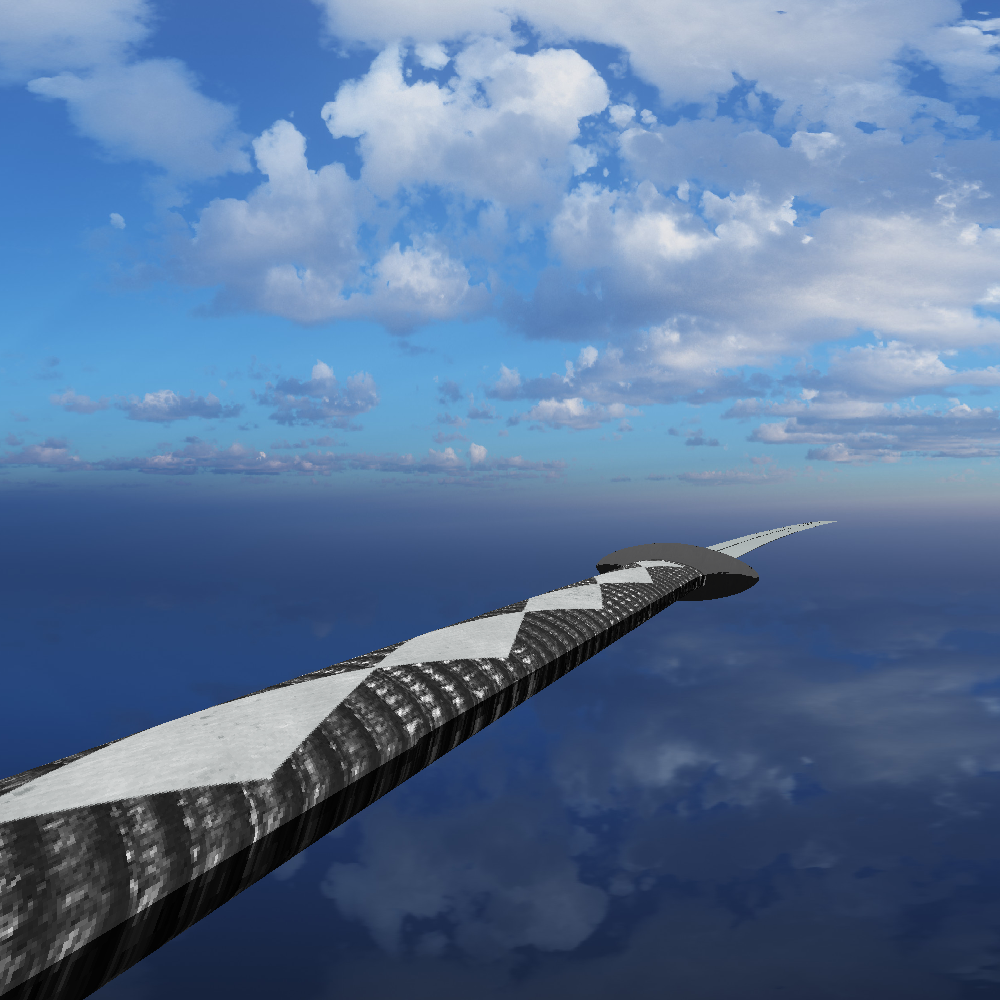
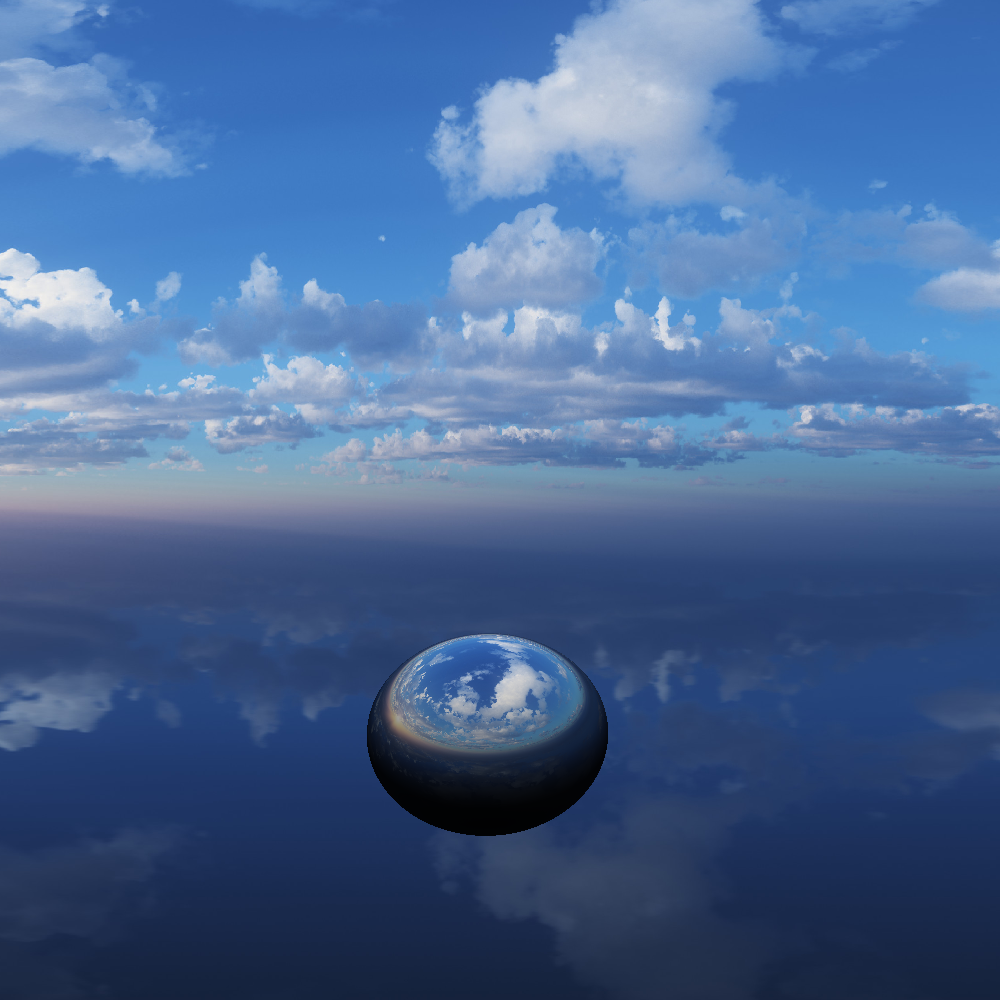
Fixed sft shadow but reversed

diff --git a/dev/src/physic/shadow.c b/dev/src/physic/shadow.c
@@ -7,47 +7,44 @@ void shadow_render(raycast_param* rcp)
     ray* shadow_ray = calloc(sizeof(struct ray),1);
 
     //Define the position of the shadow ray
-    scale(ry->dir, (ry->last_hit->mint - 0.00001), shadow_ray->pos);
+    scale(ry->dir, ry->last_hit->mint, shadow_ray->pos);
+    float litl_norm[3];
+    scale(ry->last_hit->normal, 0.0001, litl_norm);
+    add(shadow_ray->pos, litl_norm, shadow_ray->pos);
     add(ry->pos, shadow_ray->pos, shadow_ray->pos);
-    //printf("triangle : %f\n", ry->last_hit->tri->normal);
-    //Define the normal of the triangle hit by ry
-    float normal[3] ={0,0,0};
-    normalize(ry->last_hit->normal,normal);
-
-    int size = w->size_lights;
-    for (int i = 0; i < size; i++){
-        //Define the direction of the shadow ray
-        minus(w->lights[i]->pos, shadow_ray->pos, shadow_ray->dir);
+    for (int i = 0; i < w->size_lights; i++){
+        float dir_light[3];
+        minus(ry->last_hit->point, w->lights[i]->pos, dir_light);
+        normalize(dir_light, dir_light);
+        float dpd = dotProduct(ry->last_hit->normal, dir_light);
+        dpd = max(MIN_DIFUSE_LIGHT, dpd);
+        scale(ry->last_hit->color, dpd, ry->last_hit->color); 
+        // //Define the direction of the shadow ray
+        // minus(w->lights[i]->pos, shadow_ray->pos, shadow_ray->dir);
+        // float mint = norm(shadow_ray->dir);
         
-        //Normalize the direction vector
-        normalize(shadow_ray->dir,shadow_ray->dir);
-        float mint = distance(shadow_ray->pos, w->lights[i]->pos)+0.01;
-        float c = 1/mint * w->lights[i]->intensity;
+        // //Normalize the direction vector
+        // normalize(shadow_ray->dir,shadow_ray->dir);
+        // float c = 1/mint * w->lights[i]->intensity;
 
-        //float coeff[3] = {c,c,c};
         
-        shadow_ray->last_hit = calloc(sizeof(struct ray_result),1);
-        shadow_ray->last_hit->mint = mint;
+        // shadow_ray->last_hit = calloc(sizeof(struct ray_result),1);
+        // shadow_ray->last_hit->mint = mint;
         
-        raycast_param* shadow_rcp = init_raycast_param(shadow_ray, rcp->w, 0, 0, 0);
-        ray_cast(shadow_rcp);
-        //if we hit somthing, set the color in black
-        float x = dotProduct(normal, shadow_ray->dir);
-        if (shadow_ray->last_hit->mint == mint && x > 0){
-
-
-                //light
-                ry->last_hit->color[0] = ((1 -ry->last_hit->color[0])*c+ry->last_hit->color[0]);
-                ry->last_hit->color[1] = ((1 -ry->last_hit->color[1])*c+ry->last_hit->color[1]);
-                ry->last_hit->color[2] = ((1 -ry->last_hit->color[2])*c+ry->last_hit->color[2]);
-        }       
-        else //shadow
-        {
-            float sqtc = sqrt(c);
-            scale(ry->last_hit->color, sqtc, ry->last_hit->color);
-        }
-        if(shadow_ray->last_hit)
-            free(shadow_ray->last_hit);
+        // raycast_param* shadow_rcp = init_raycast_param(shadow_ray, rcp->w, 0, 0, 0);
+        // ray_cast(shadow_rcp);
+        // //if we hit somthing, set the color in black
+        // float ns = dotProduct(ry->last_hit->normal, shadow_ray->dir);
+        // if (shadow_ray->last_hit->mint == mint && ns > 0){
+        //         //light
+        //         scale(ry->last_hit->color, (1-c), ry->last_hit->color);
+        // }       
+        // else //shadow
+        // {
+        //     scale(ry->last_hit->color, cos(ns), ry->last_hit->color);
+        // }
+        // if(shadow_ray->last_hit)
+        //     free(shadow_ray->last_hit);
     }
     free(shadow_ray);
 }

diff --git a/dev/src/window/renderer.c b/dev/src/window/renderer.c
@@ -13,16 +13,18 @@ void render_screen(rendering_params* rdp)
     SDL_PixelFormat* format = rdp->format;
         
     update_cam_sides(rdp);
-    
     int* pixels_rasterize = calloc(sizeof(int)*width*height, 1);
+    #if USE_RASTERIZE
     render_rasterize_bbox(rdp, pixels_rasterize);
+    #else
+    memset(pixels_rasterize, 1, width*height);
+    #endif
 
     #pragma omp parallel for
     for(int i = 0; i < width*height; i++){
-        if(!pixels_rasterize[i])
-            continue;
         ray r = create_ray_interpolate(rdp, i%width, i/width);
         raycast_param* rcp = init_raycast_param(&r, rdp->w, rdp->reflection, rdp->shadow, 0);
+        rcp->compute_meshes = pixels_rasterize[i];
         ray_cast(rcp);
         if(r.last_hit != NULL){
             pixels[i] = SDL_MapRGBA(format, r.last_hit->color[0]*255, r.last_hit->color[1]*255, r.last_hit->color[2]*255, 255);
@@ -53,7 +55,7 @@ void render_screen(rendering_params* rdp)
     }
 }
 
-void setPixel(SDL_Surface *surface, int x, int y, Uint32 color)
+void set_pixel(SDL_Surface *surface, int x, int y, Uint32 color)
 {
     int bpp = surface->format->BytesPerPixel;
     Uint8 *p = (Uint8 *)surface->pixels + y * surface->pitch + x * bpp;
@@ -96,11 +98,11 @@ void* render_quality_process(void* rdpptr){
         raycast_param* rcp = init_raycast_param(&r, w, 1, 1, 1);
         ray_cast(rcp);
         if(r.last_hit != NULL){
-            setPixel(image, i%width, i/width, SDL_MapRGBA(format, r.last_hit->color[0]*255, r.last_hit->color[1]*255, r.last_hit->color[2]*255, 255));
+            set_pixel(image, i%width, i/width, SDL_MapRGBA(format, r.last_hit->color[0]*255, r.last_hit->color[1]*255, r.last_hit->color[2]*255, 255));
             free(r.last_hit);
         }
         else
-            setPixel(image, i%width, i/width, SDL_MapRGBA(format, 0, 0, 0, 255));
+            set_pixel(image, i%width, i/width, SDL_MapRGBA(format, 0, 0, 0, 255));
         if(i%100 == 0){
             pthread_mutex_lock(&mutex);
             percentage = 100*i/(width*height);

diff --git a/dev/src/main.c b/dev/src/main.c
@@ -25,13 +25,13 @@ int main(){
 
     printf("World initialized, loading objects\n");
 
-    // sphere* s = sphere_init(0, 2, 0, 5, .5, 0 ,0, 1);
-    // add_sphere(wd, s);
+    sphere* s = sphere_init(0, 2, 0, 1, 1, 0 ,0, 1);
+    add_sphere(wd, s);
     // CHALLENGE : load_object("assets/objs/bunny.obj", wd, 10, (float[]){0,0,0}, .1);
     //1166 875 -> 388, 218
     //load_object("./assets/objs/grass.obj", wd, 1, (float[]){0,0,0}, NULL, .2);
-    load_object("./assets/objs/katana.obj", wd, 4, (float[]){0,0,0}, "./assets/textures/katana.png", 0);
-    light* lt = init_light((float[]){0,5,0}, (float[]){1,1,1}, 1);
+    //load_object("./assets/objs/katana.obj", wd, 4, (float[]){0,0,0}, "./assets/textures/katana.png", 0);
+    light* lt = init_light((float[]){0,-4,0}, (float[]){1,1,1}, 1);
     add_light(wd, lt);
 
     printf("World object count: %d \n", wd->size_meshes);

diff --git a/dev/src/render/render.c b/dev/src/render/render.c
@@ -25,11 +25,12 @@ void ray_cast(raycast_param* rcp){
         get_background(rcp);
         return;
     }
-    for(int idm = 0; idm < w->size_meshes; idm++){
-        mesh* m = w->meshes[idm];
-        r->current_mesh = m;
-        mesh_render(m, r);
-    }
+    if(rcp->compute_meshes)
+        for(int idm = 0; idm < w->size_meshes; idm++){
+            mesh* m = w->meshes[idm];
+            r->current_mesh = m;
+            mesh_render(m, r);
+        }
     for(int ids = 0; ids < w->size_spheres; ids++){
         sphere* s = &w->spheres[ids];
         r->current_mesh = NULL;

diff --git a/dev/src/architecture/ray.c b/dev/src/architecture/ray.c
@@ -30,6 +30,9 @@ void ray_update_result(ray* r, triangle* tri, float new_mint, float color[3], fl
     new_hit->tri = tri;
     new_hit->m = r->current_mesh;
     new_hit->reflectivity = reflectivity;
+    copy(r->dir, new_hit->point);
+    scale(new_hit->point, new_mint, new_hit->point);
+    add(new_hit->point, r->pos, new_hit->point);
     normalize(normal, new_hit->normal);
     copy(color, new_hit->color);
     if(r->last_hit != NULL)

diff --git a/dev/src/render/sphere_renderer.c b/dev/src/render/sphere_renderer.c
@@ -24,13 +24,6 @@ int sphere_render(sphere * s, ray * r){
     add(r->pos, onSphere, onSphere);
     minus(onSphere, s->pos, normal);
     normalize(normal, normal);
-    float val = dotProduct(normal, r->dir);
-    if(val < 0)
-        val*=-1;
-    if(val > 1)
-        val = 1;
-    val++;
-    //scale(s->color, val, color);
     ray_update_result(r, NULL, t, s->color, normal, s->reflectivity);
     return 1;
 }

diff --git a/dev/include/render/rendering_params.h b/dev/include/render/rendering_params.h
@@ -30,6 +30,8 @@ typedef struct raycast_param{
     int shadow;
     //if the ray should return NULL or the background color if it doesn't hit anything
     int skybox;
+    //the pixels that need to be computed for meshes
+    int compute_meshes;
 } raycast_param;
 
 #endif

diff --git a/dev/src/render/rendering_tools.c b/dev/src/render/rendering_tools.c
@@ -26,5 +26,6 @@ raycast_param* init_raycast_param(ray* r, world* w, int reflection, int shadow, 
     rcp->reflection = max(reflection, 0);
     rcp->shadow = shadow;
     rcp->skybox = skybox;
+    rcp->compute_meshes = 1;
     return rcp;
 }

diff --git a/dev/src/render/bbox_rasterizer.c b/dev/src/render/bbox_rasterizer.c
@@ -70,4 +70,5 @@ void render_rasterize_bbox(rendering_params* rdp, int* pixels){
     for(int i = 0; i < w->size_meshes; i++){
         rasterize_bbox(w->meshes[i], rdp, pixels);
     }
+    
 }

diff --git a/dev/include/constants.h b/dev/include/constants.h
@@ -6,4 +6,11 @@
 #define QUALITY_WIDTH 1000
 #define QUALITY_HEIGHT 1000
 #define LBBOX 4
+
+//shadow
+#define MIN_DIFUSE_LIGHT 0.1
+
+//parameters
+#define USE_RASTERIZE 1
+
 #endif

diff --git a/dev/include/architecture/ray.h b/dev/include/architecture/ray.h
@@ -17,6 +17,7 @@ typedef struct ray_result
     float normal[3];
     float color[3];
     float reflectivity;
+    float point[3];
 
 } ray_result;
 typedef struct ray
